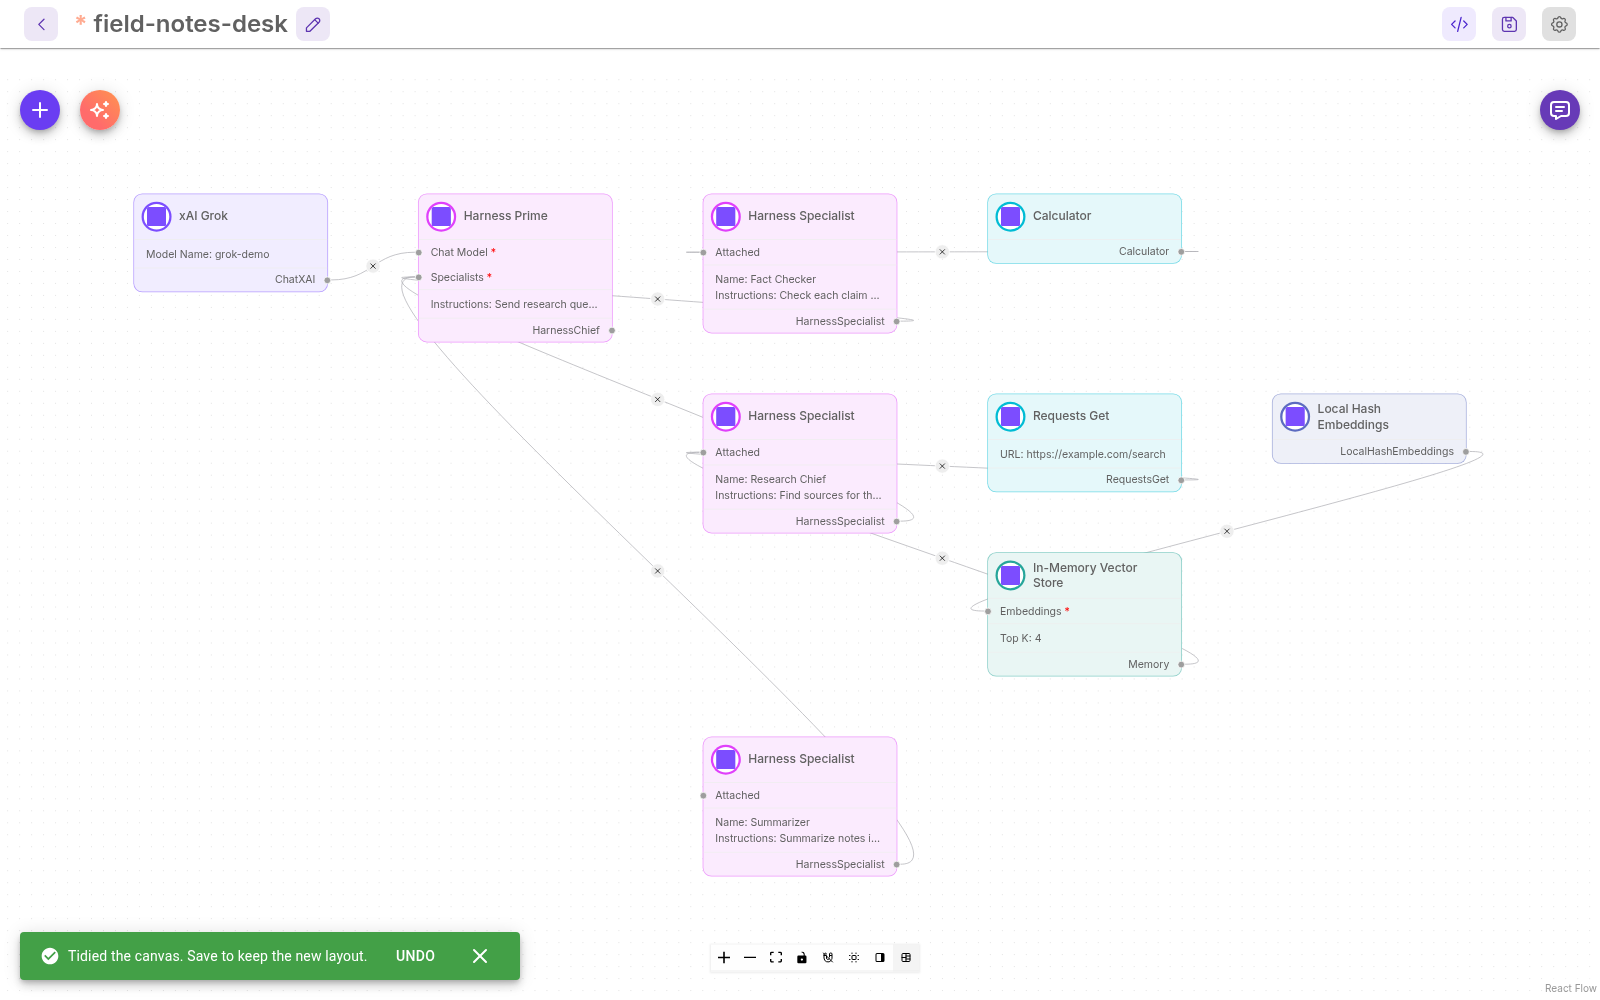
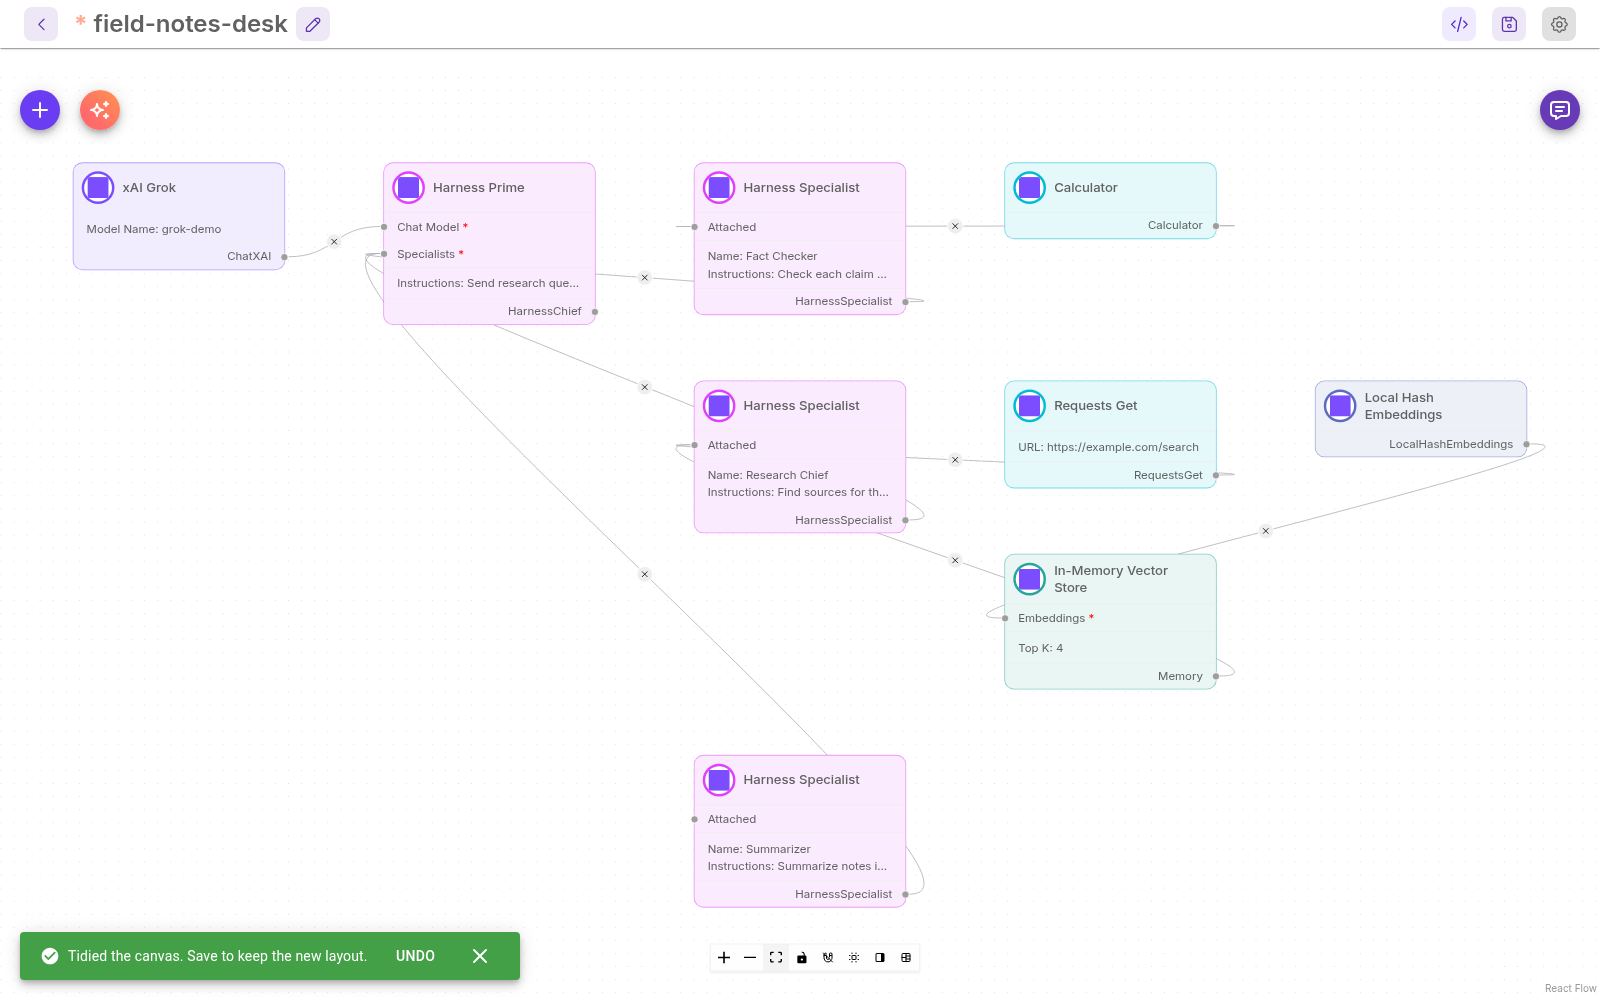
Keep the Tidy layout view and Undo message in place
Tidy layout no longer moves the view, so a saved canvas differs only in
card positions. The Undo message stays until Undo, Close, or an edit or
save ends the undo, and it closes when the canvas is left.

diff --git a/packages/ui/src/views/canvas/TidyLayoutButton.jsx b/packages/ui/src/views/canvas/TidyLayoutButton.jsx
@@ -1,6 +1,6 @@
 import { useCallback, useEffect, useRef, useState } from 'react'
 import PropTypes from 'prop-types'
-import { useNodesInitialized, useReactFlow } from 'reactflow'
+import { useNodesInitialized } from 'reactflow'
 import { Button } from '@mui/material'
 import { IconLayoutBoardSplit, IconX } from '@tabler/icons-react'
 
@@ -23,18 +23,21 @@ export function isTidyUndoKey(event) {
 // the person's own Save keeps the layout. One Undo (the snackbar button or Ctrl/Cmd+Z) puts every card back while
 // no card has been moved, added or removed and the canvas has not been saved.
 const TidyLayoutButton = ({ nodes, edges, setNodes, isDirty, onDirty, enqueueSnackbar, closeSnackbar }) => {
-    const { fitView } = useReactFlow()
     const measured = useNodesInitialized()
     const [undo, setUndo] = useState(null)
     const snackbarKey = useRef(null)
     const nodesRef = useRef(nodes)
     nodesRef.current = nodes
 
+    // The canvas passes a new closeSnackbar on every render, so the callbacks read the latest one from a ref.
+    const closeRef = useRef(closeSnackbar)
+    closeRef.current = closeSnackbar
+
     const dropUndo = useCallback(() => {
         setUndo(null)
-        if (snackbarKey.current != null) closeSnackbar(snackbarKey.current)
+        if (snackbarKey.current != null) closeRef.current(snackbarKey.current)
         snackbarKey.current = null
-    }, [closeSnackbar])
+    }, [])
 
     const runUndo = useCallback(() => {
         if (!canUndoTidy(undo, nodesRef.current)) return false
@@ -67,6 +70,7 @@ const TidyLayoutButton = ({ nodes, edges, setNodes, isDirty, onDirty, enqueueSna
             options: {
                 key,
                 variant: 'success',
+                persist: true,
                 action: (actionKey) => (
                     <>
                         <Button style={{ color: 'white' }} onClick={() => runUndoRef.current()}>
@@ -79,8 +83,15 @@ const TidyLayoutButton = ({ nodes, edges, setNodes, isDirty, onDirty, enqueueSna
                 )
             }
         })
-        setTimeout(() => fitView({ padding: 0.2, maxZoom: 1, duration: 200 }), 0)
     }
+
+    // The Undo message stays until Undo, Close, or an edit or save ends the undo. Leaving the canvas closes it.
+    useEffect(
+        () => () => {
+            if (snackbarKey.current != null) closeRef.current(snackbarKey.current)
+        },
+        []
+    )
 
     // Moving, adding or removing a card, or a save, ends the undo.
     useEffect(() => {

diff --git a/docs/how-to/harnesses.md b/docs/how-to/harnesses.md
@@ -121,15 +121,15 @@ A playbook can ask for a closing line, such as `Source: sales warehouse`. When t
 
 ## Tidy the layout
 
-**Tidy layout**, in the control bar at the bottom of a harness canvas, rearranges the cards so the team reads left to right. The button turns on once the cards are drawn. Harness Prime and its chat model go in the first columns. Each Harness Specialist gets its own row, with the cards wired into it to its right. Sticky notes and cards that are not wired to the team go in a last column, so nothing is removed. Cards inside another card, such as an iteration, stay where they are.
+**Tidy layout**, in the control bar at the bottom of a harness canvas, rearranges the cards so the team reads left to right. The button turns on once the cards are drawn. Harness Prime and its chat model go in the first columns. Each Harness Specialist gets its own row, with the cards wired into it to its right. Sticky notes and cards that are not wired to the team go in a last column, so nothing is removed. Cards inside another card, such as an iteration, stay where they are. The view does not move: select the fit view button beside it to see every card.
 
 ![The field-notes-desk harness canvas before Tidy layout. Calculator, Requests Get, In-Memory Vector Store, Harness Prime, xAI Grok, Local Hash Embeddings, and three Harness Specialist cards named Research Chief, Summarizer, and Fact Checker are scattered, and the Research Chief and Summarizer cards overlap.](../images/harnesses/canvas-tidy-before.png)
 
-![The same canvas after Tidy layout. xAI Grok and Harness Prime are in the first two columns. Fact Checker, Research Chief, and Summarizer each have a row, with Calculator to the right of Fact Checker, and Requests Get, In-Memory Vector Store, and Local Hash Embeddings to the right of Research Chief. A green message at the bottom reads Tidied the canvas. Save to keep the new layout, with Undo.](../images/harnesses/canvas-tidy-after.png)
+![The same canvas after Tidy layout. xAI Grok and Harness Prime are in the first two columns. Fact Checker, Research Chief, and Summarizer each have a row, with Calculator to the right of Fact Checker, and Requests Get, In-Memory Vector Store, and Local Hash Embeddings to the right of Research Chief. A green message at the bottom reads Tidied the canvas. Save to keep the new layout, with Undo. The fit view button was selected after the tidy.](../images/harnesses/canvas-tidy-after.png)
 
 Tidy layout rearranges the canvas; Save to keep it. It moves cards only. Connections, card settings, and card ids do not change, and the harness runs the same way. Nothing is saved until you select **Save Harness**, and the asterisk before the name shows the change is not saved yet. When the cards are already in place, it says `The canvas is already tidy.`
 
-To go back, select **Undo** in the message or press Ctrl+Z (Cmd+Z on a Mac) outside a text field. Undo is one step: it puts every card back where it was before the last tidy. Settings you changed after the tidy stay. Undo is no longer offered after you move, add, or remove a card, or save. The canvas stays marked as not saved after Undo.
+To go back, select **Undo** in the message or press Ctrl+Z (Cmd+Z on a Mac) on the canvas, outside a text field or dialog. Undo is one step: it puts every card back where it was before the last tidy. Settings you changed after the tidy stay. The message stays until you select Undo or close it. Closing it keeps Ctrl+Z. Undo is no longer offered after you move, add, or remove a card, or save. The canvas stays marked as not saved after Undo.
 
 ## Save the harness
 
